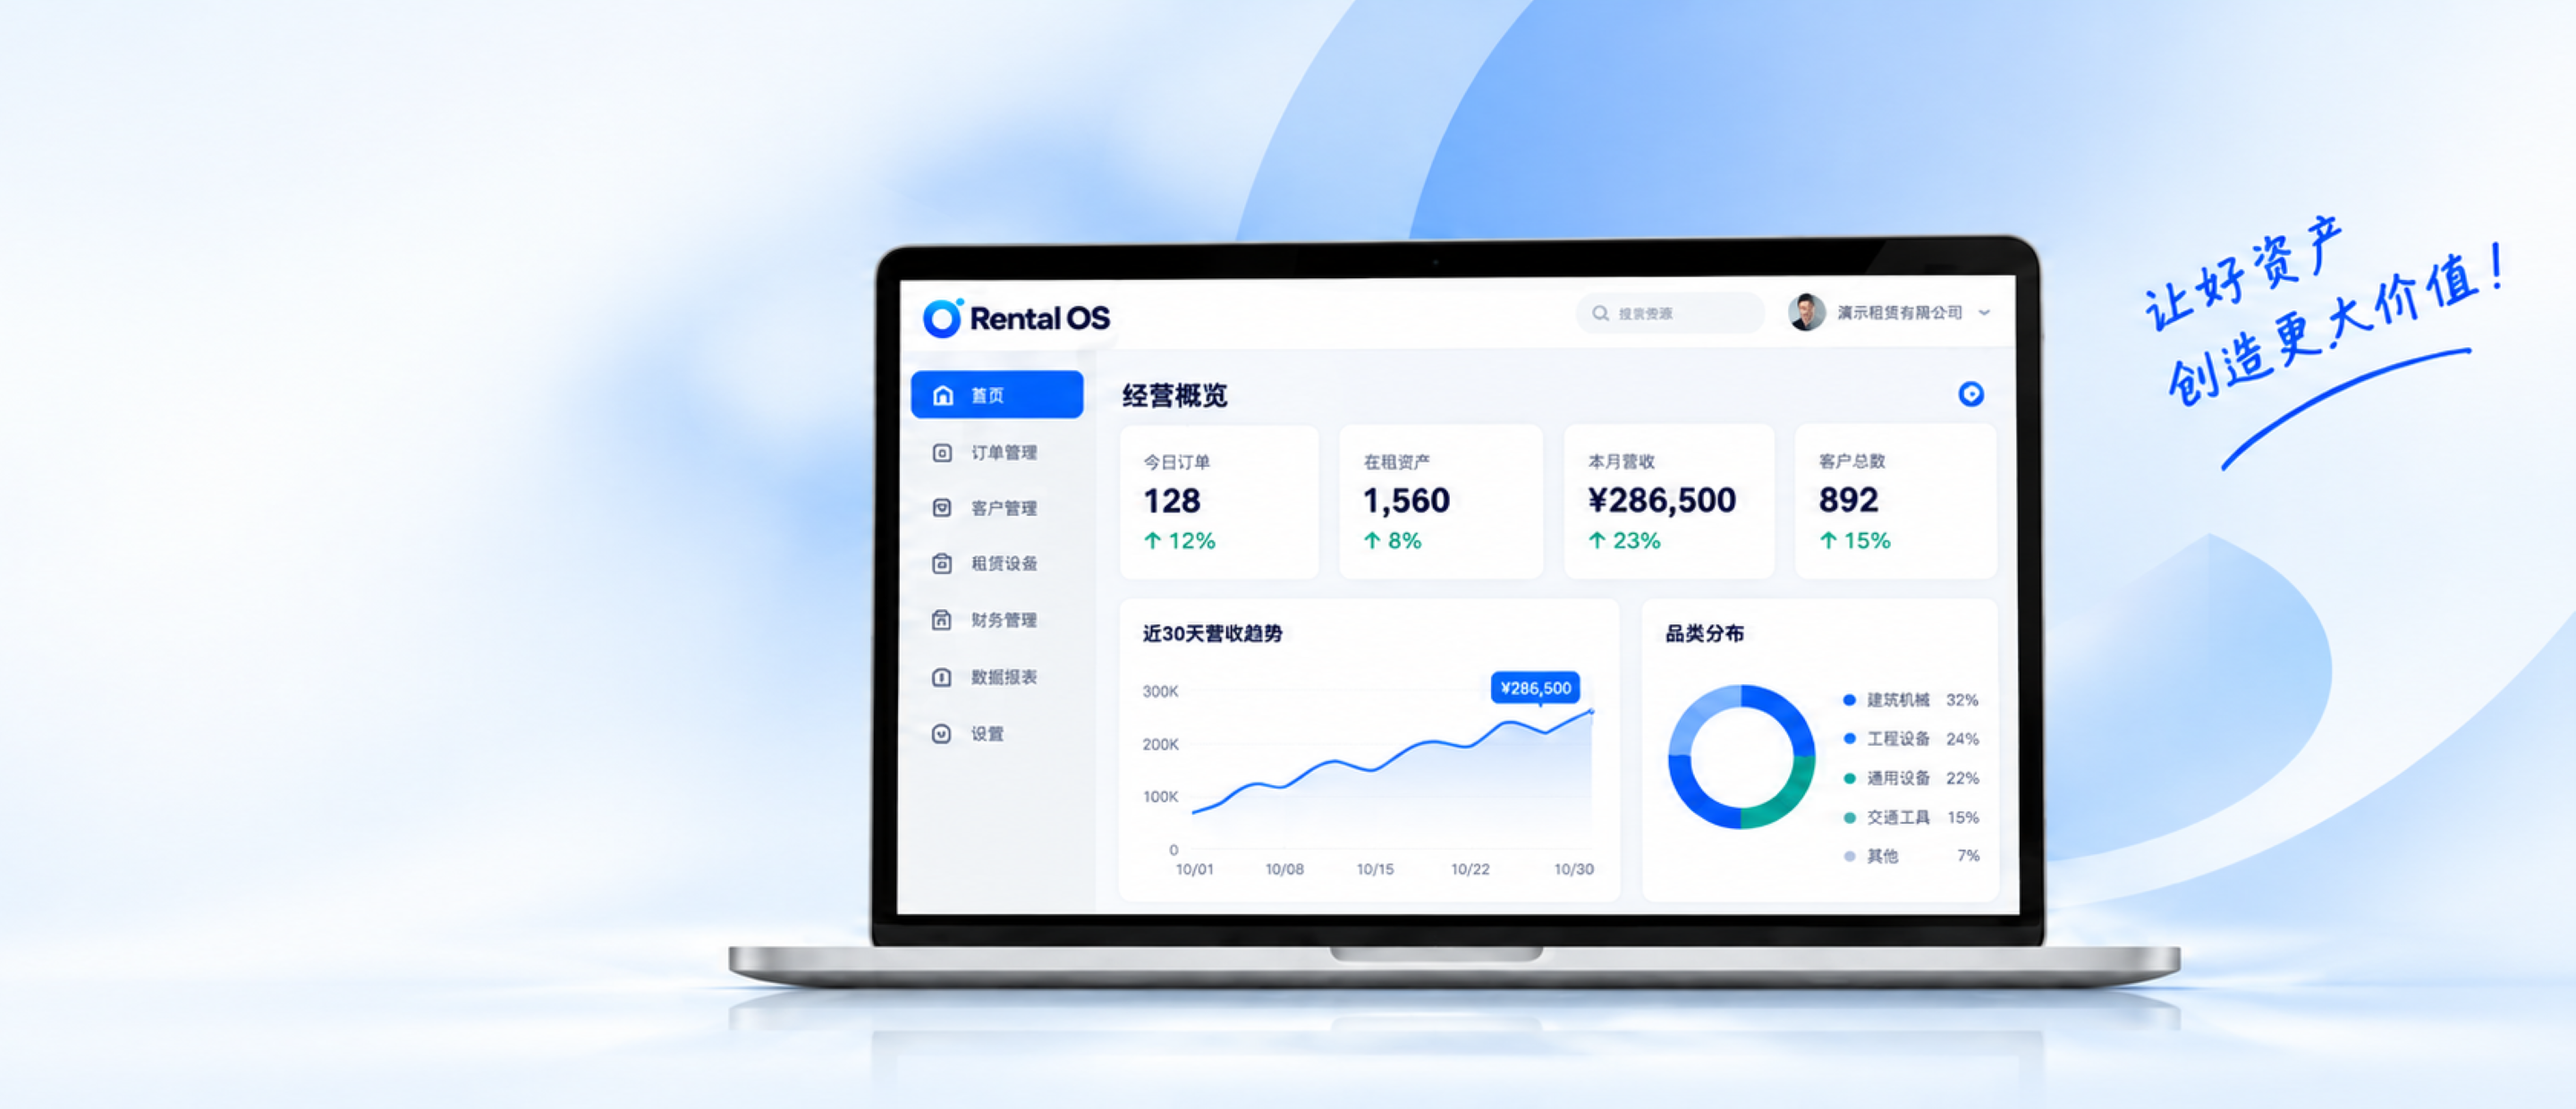
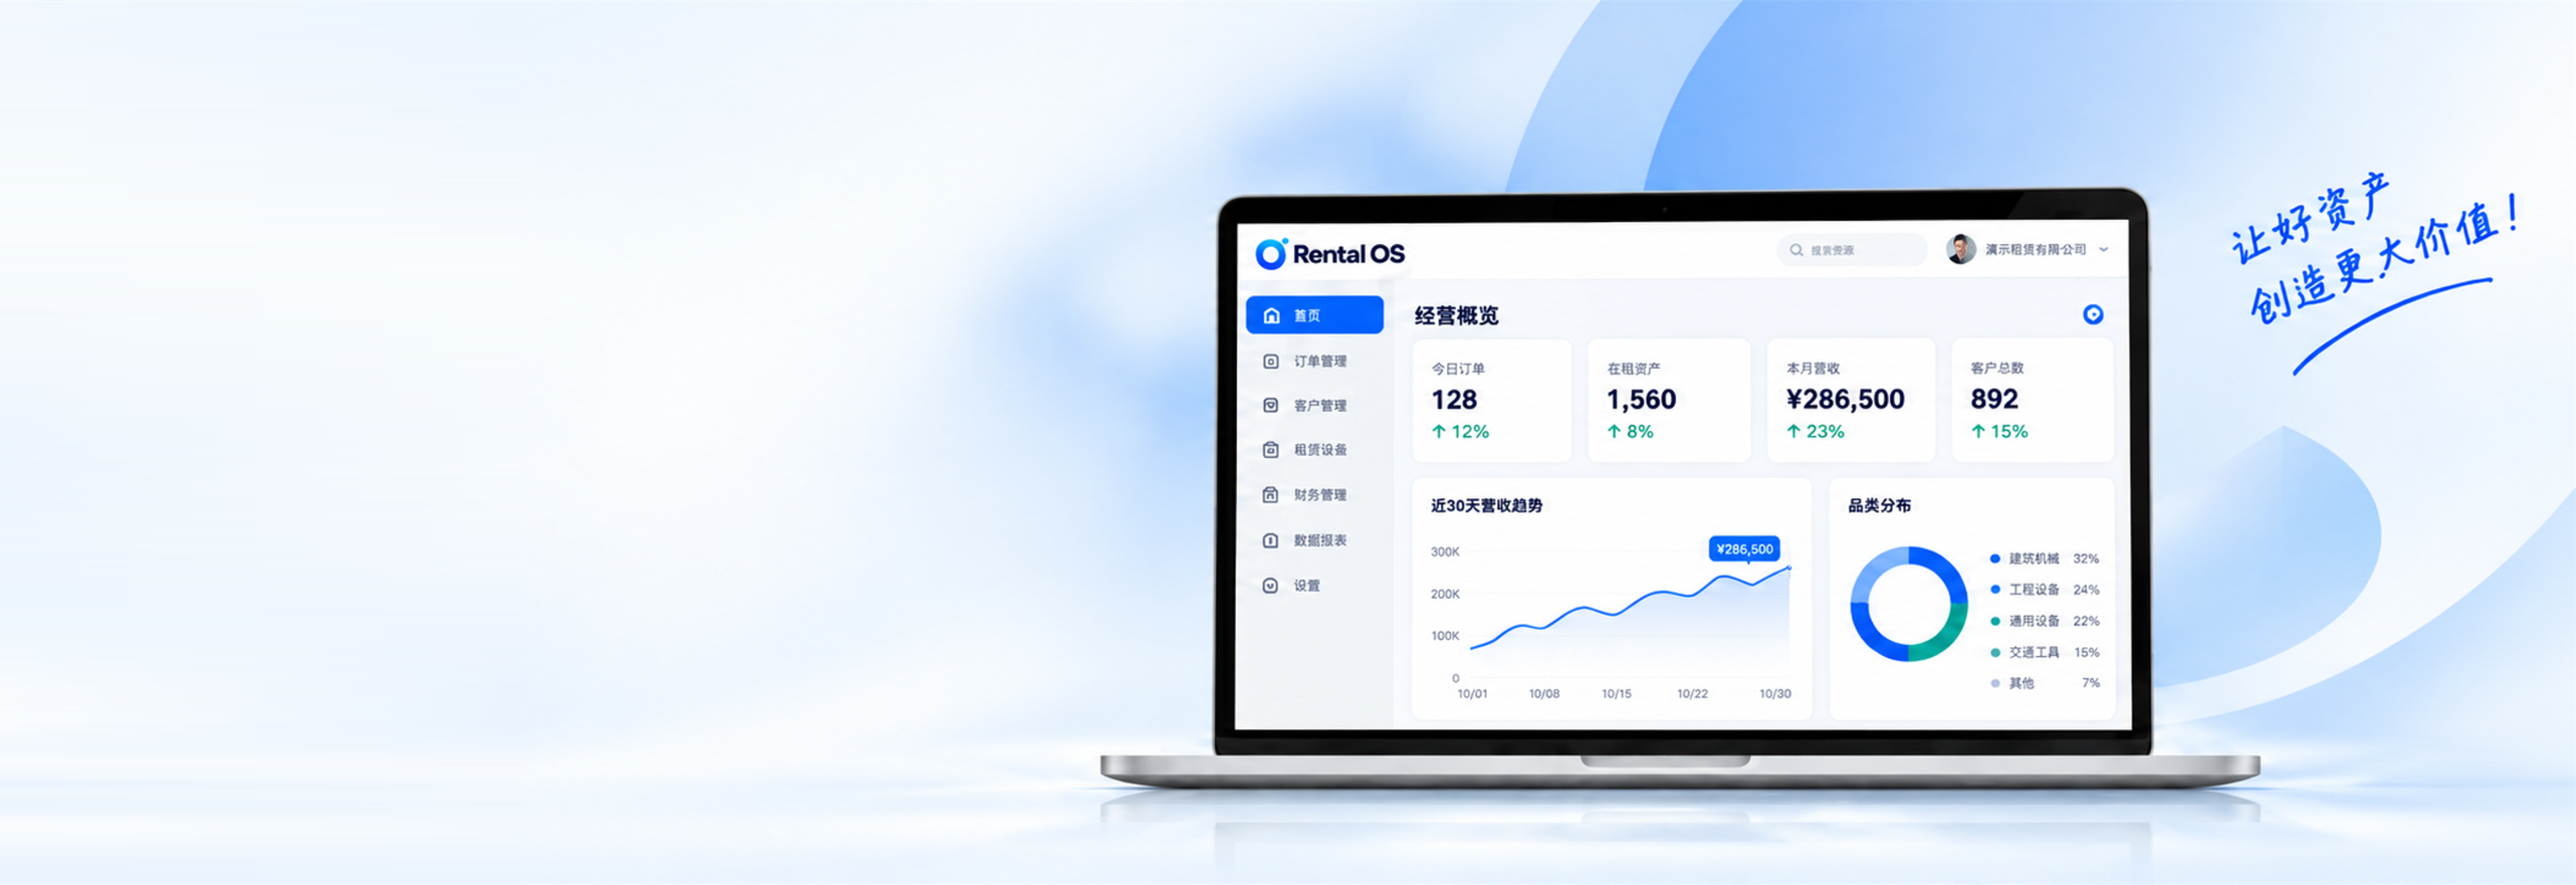
Use a full-bleed hero background

diff --git a/index.html b/index.html
@@ -19,7 +19,7 @@
 <meta property="og:image:alt" content="Rental OS 租赁业务管理平台" />
 <meta property="og:image:type" content="image/png" />
 <meta property="og:image:width" content="2880" />
-<meta property="og:image:height" content="1240" />
+<meta property="og:image:height" content="990" />
 <meta name="twitter:card" content="summary_large_image" />
 <meta name="twitter:title" content="Rental OS｜新一代租赁业务管理平台" />
 <meta name="twitter:description" content="一套系统连接资产、订单、定价、履约与客户，帮助租赁企业更高效地经营多品类业务。" />
@@ -136,10 +136,10 @@ html[data-theme="dark"] .theme-icon svg.theme-icon-moon{display:block}
 .btn-outline{height:38px;background:#fff;color:#0968ef;border:1.5px solid #0a73ff;box-shadow:0 4px 10px rgba(18,96,203,.05)}
 
 /* Hero */
-.hero{position:relative;min-height:clamp(560px,43vw,660px);height:clamp(560px,43vw,660px);background:linear-gradient(180deg,#f6fbff 0%,#eef8ff 52%,#e5f3ff 100%);overflow:visible}
+.hero{position:relative;min-height:clamp(560px,43vw,660px);height:clamp(560px,43vw,660px);background:#eaf4ff;overflow:visible}
 .hero:before,.hero:after{display:none}
 .hero-backgrounds{position:absolute;inset:0;z-index:0;overflow:hidden;pointer-events:none}
-.hero-background{position:absolute;inset:0;background-position:center center;background-size:auto 100%;background-repeat:no-repeat;opacity:0;transition:opacity .65s ease}
+.hero-background{position:absolute;inset:0;background-position:center center;background-size:cover;background-repeat:no-repeat;opacity:0;transition:opacity .65s ease}
 .hero-background.is-active{opacity:1}
 .hero .container{position:relative;z-index:2;height:100%;min-height:100%;padding:64px 0 48px;display:flex;align-items:center}
 .hero-copy{position:relative;z-index:3;width:35%;min-width:350px}
@@ -346,7 +346,7 @@ html[data-theme="dark"] .footer-nav a:hover{color:#75b8ff}
 
 /* responsive */
 @media (min-width:901px) and (max-width:1180px){
-  /* At narrow desktop widths the artwork must still cover the full stage;
+  /* At narrow desktop widths the full-bleed artwork still covers the stage;
      the copy column is narrowed at the same breakpoint to keep the two
      visual regions separate until the mobile layout takes over. */
   .hero-background{background-size:cover;background-position:20% center}
